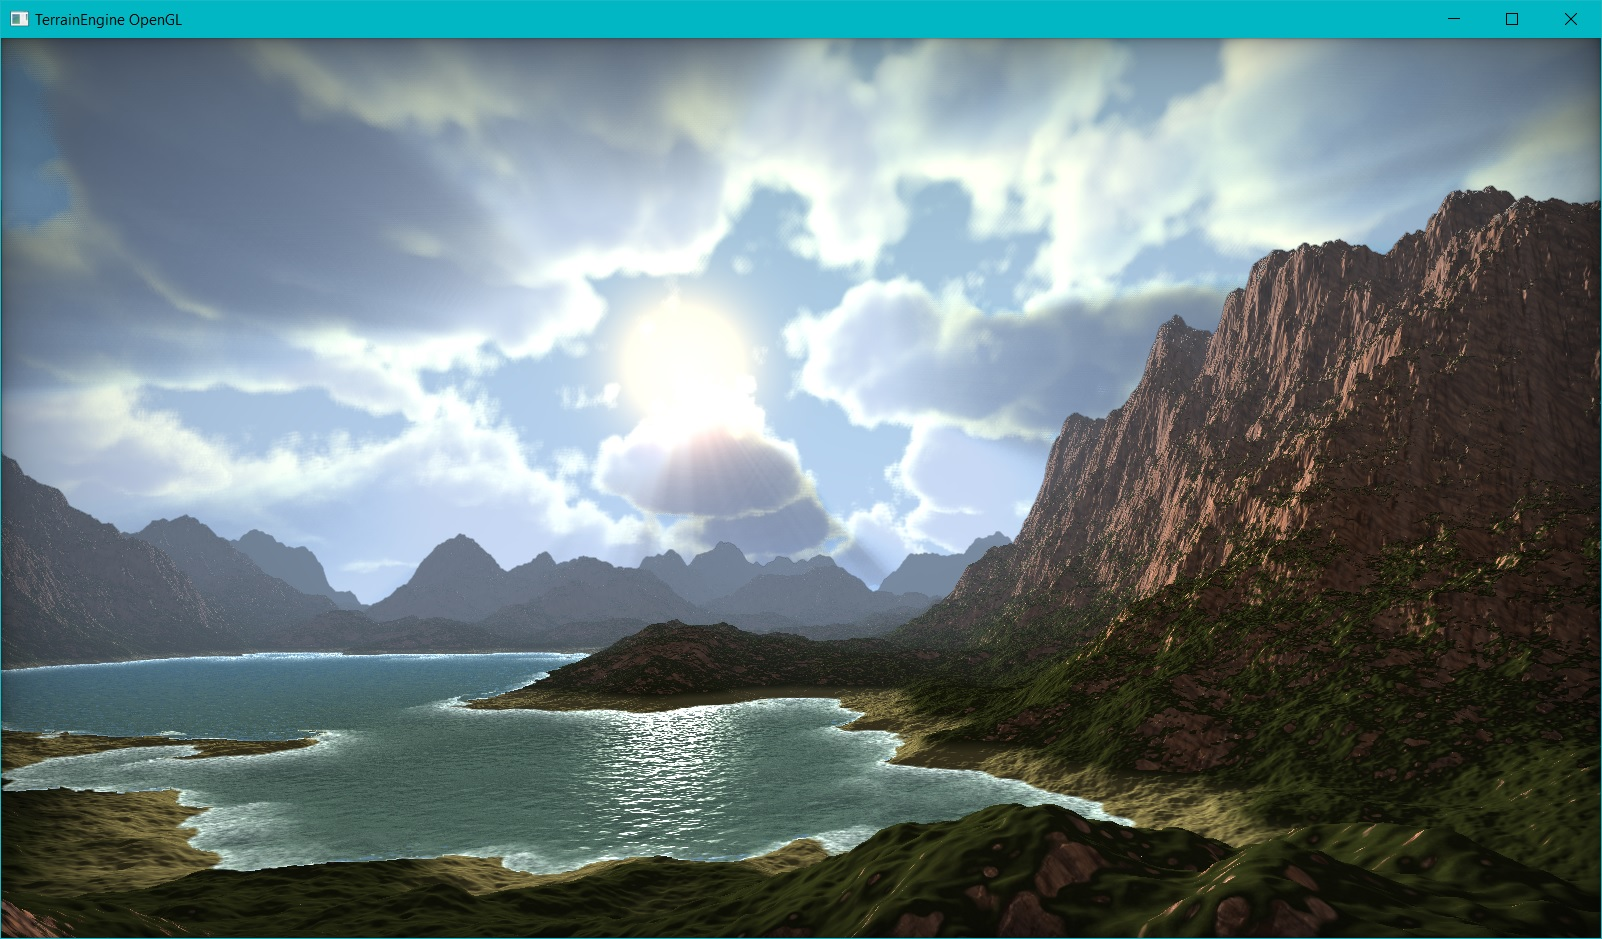
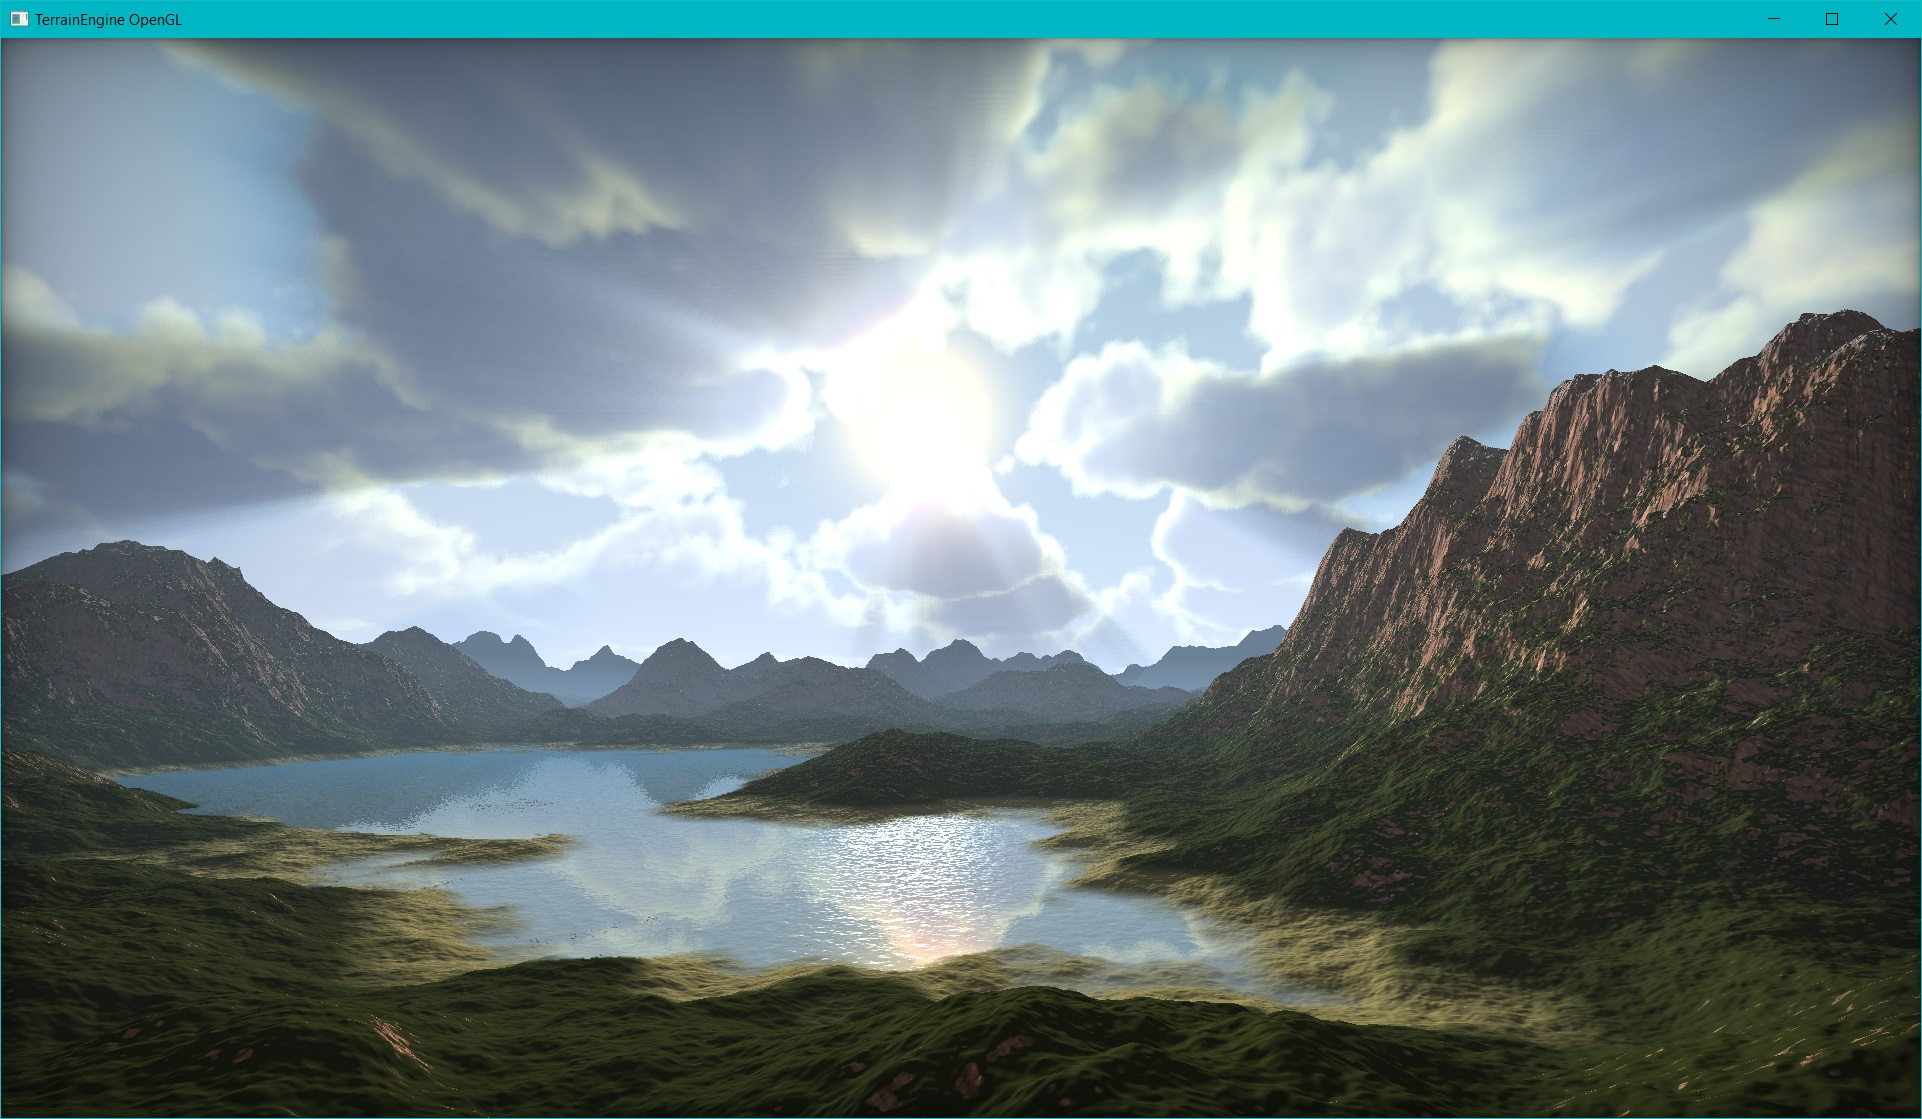
Update pictures. Update terrain fog.

diff --git a/Tile.cpp b/Tile.cpp
@@ -46,7 +46,7 @@ Tile::Tile(float scale, float dispFactor, int gl) : dispFactor(dispFactor), scal
 
 	this->I = glm::vec2(1, 0)*s;
 	this->J = glm::vec2(0, 1)*s;
-	res = 6;
+	res = 4;
 	initializePlaneVAO(res, tileW, &planeVAO, &planeVBO, &planeEBO);
 	//planeModel = new Model("resources/plane.obj", GL_PATCHES);
 	//waterModel = new Model("resources/plane.obj", GL_TRIANGLES);
@@ -195,9 +195,9 @@ bool Tile::inTile(Camera camera, glm::vec2 pos) {
 	float y = pos.y;
 
 	bool inX = false;
-	if ((camX < x + scaleFactor * tileW/2.0f) && (camX > x - scaleFactor * tileW/2.0f)) { inX = true; }
+	if ((camX <= x + scaleFactor * tileW/2.0f) && (camX >= x - scaleFactor * tileW/2.0f)) { inX = true; }
 	bool inY = false;
-	if ((camY < y + scaleFactor * tileW/2.0f) && (camY > y - scaleFactor * tileW/2.0f)) { inY = true; }
+	if ((camY <= y + scaleFactor * tileW/2.0f) && (camY >= y - scaleFactor * tileW/2.0f)) { inY = true; }
 
 	bool result = inX && inY;
 
@@ -234,20 +234,20 @@ void Tile::updateTiles() {
 		posN = posC + I,
 		posE = posC + J,
 		posW = posC - J,
-		posSE = posS + posE,
-		posSW = posS + posW,
-		posNE = posN + posE,
-		posNW = posN + posW;
+		posSE = posS + posE - posC,
+		posSW = posS + posW - posC,
+		posNE = posN + posE - posC,
+		posNW = posN + posW - posC;
 
 	//if (tile->inTile(s->cam, posC)) std::cout << "IN C" << std::endl;
 	if (inTile(se->cam, posS)) whichTile = S, howManyTiles++;// , std::cout << "IN S" << std::endl;
 	if (inTile(se->cam, posE)) whichTile = E, howManyTiles++;// , std::cout << "IN E" << std::endl;
 	if (inTile(se->cam, posW)) whichTile = W, howManyTiles++;// , std::cout << "IN W" << std::endl;
 	if (inTile(se->cam, posN)) whichTile = N, howManyTiles++;// , std::cout << "IN N" << std::endl;
-	//if (tile->inTile(s->cam, posNE)) whichTile = NE, howManyTiles++;
-	//if (tile->inTile(s->cam, posNW)) whichTile = NW, howManyTiles++;
-	//if (tile->inTile(s->cam, posSE)) whichTile = SE, howManyTiles++;
-	//if (tile->inTile(s->cam, posSW)) whichTile = SW, howManyTiles++;
+	if (inTile(se->cam, posNE)) whichTile = NE, howManyTiles++;
+	if (inTile(se->cam, posNW)) whichTile = NW, howManyTiles++;
+	if (inTile(se->cam, posSE)) whichTile = SE, howManyTiles++;
+	if (inTile(se->cam, posSW)) whichTile = SW, howManyTiles++;
 
 	for (int i = 0; i < positionVec.size(); i++) {
 		if (inTile(se->cam, positionVec[i])) {

diff --git a/Main.cpp b/Main.cpp
@@ -53,8 +53,9 @@ int main()
 
 	window.camera = &camera;
 
-	glm::vec3 fogColor(0.6 + 0.1, 0.71 + 0.1, 0.85 + 0.1);
-	fogColor *= 0.7;
+	//glm::vec3 fogColor(0.6 + 0.1, 0.71 + 0.1, 0.85 + 0.1);
+	glm::vec3 fogColor(0.5,0.6,0.7);
+	//fogColor *= 0.7;
 	glm::vec3 lightColor(255, 255, 230);
 	lightColor /= 255.0;
 
@@ -65,7 +66,7 @@ int main()
 	Skybox skybox; //unused
 	VolumetricClouds volumetricClouds(Window::SCR_WIDTH, Window::SCR_HEIGHT);
 	VolumetricClouds reflectionVolumetricClouds(1280, 720); //a different object is needed because it has a state-dependent draw method
-	reflectionVolumetricClouds.setReflection(true);
+	reflectionVolumetricClouds.setPostProcess(false);
 
 	float waterHeight = 128.0 + 50.0;
 	Water water(glm::vec2(0.0, 0.0), scale*gl, waterHeight);
@@ -84,6 +85,10 @@ int main()
 
 	ScreenQuad fboVisualizer("shaders/visualizeFbo.frag");
 
+
+	unsigned int testTexture = Texture2D(1920, 1080);
+	Shader testComp("TEST", "shaders/testComputeShaderA.comp");
+	int frameIter = 0;
 	while (window.continueLoop())
 	{
 
@@ -128,7 +133,7 @@ int main()
 		water.bindReflectionFBO();
 		glClearColor(0.0, 0.4*0.8, 0.7*0.8, 1.0);
 		glEnable(GL_DEPTH_TEST);
-		glEnable(GL_CULL_FACE);
+		//glEnable(GL_CULL_FACE);
 		glCullFace(GL_BACK);
 		glClear(GL_COLOR_BUFFER_BIT | GL_DEPTH_BUFFER_BIT);
 		scene.cam.invertPitch();
@@ -160,6 +165,9 @@ int main()
 		//draw to water refraction buffer object
 		water.bindRefractionFBO();
 		glClear(GL_COLOR_BUFFER_BIT | GL_DEPTH_BUFFER_BIT);
+		glEnable(GL_DEPTH_TEST);
+		glEnable(GL_CULL_FACE);
+
 		terrain.up = -1.0;
 		terrain.draw();
 
@@ -185,10 +193,18 @@ int main()
 		PostProcessing.draw();
 
 		///////////////
+
+		testComp.use();
+		testComp.setInt("frameIter", (frameIter++)/64 % 16);
+
+		bindTexture2D(testTexture, 0);
+		glDispatchCompute(1920 / 8, 1080 / 8, 1);
+		glMemoryBarrier(GL_SHADER_IMAGE_ACCESS_BARRIER_BIT);
+
 		// Texture visualizer
 		Shader& fboVisualizerShader = fboVisualizer.getShader();
 		fboVisualizerShader.use();
-		fboVisualizerShader.setSampler2D("fboTex", 0, 0);
+		fboVisualizerShader.setSampler2D("fboTex", testTexture, 0);
 		//fboVisualizer.draw();
 		
 

diff --git a/VolumetricClouds.cpp b/VolumetricClouds.cpp
@@ -10,10 +10,10 @@ VolumetricClouds::VolumetricClouds(int SW, int SH): SCR_WIDTH(SW), SCR_HEIGHT(SH
 
 	//cloudsFBO = new FrameBufferObject(SW, SH, 4);
 	cloudsFBO = new TextureSet(SW, SH, 4);
-	cloudsPostProcessingFBO = new FrameBufferObject(SW, SH, 2);
+	cloudsPostProcessingFBO = new FrameBufferObject(Window::SCR_WIDTH, Window::SCR_HEIGHT, 2);
 	lastFrameCloudsFBO = new FrameBufferObject(SH, SH, 2);
 
-	reflection = false;
+	postProcess = true;
 	this->coverage = 0.45;
 
 	/////////////////// TEXTURE GENERATION //////////////////
@@ -118,7 +118,7 @@ void VolumetricClouds::draw() {
 	
 	//copy to lastFrameFBO
 
-	if (!reflection) {
+	if (postProcess) {
 		// cloud post processing filtering
 		cloudsPostProcessingFBO->bind();
 		Shader& cloudsPPShader = ppShader->getShader();
@@ -130,7 +130,8 @@ void VolumetricClouds::draw() {
 		cloudsPPShader.setSampler2D("depthMap", s->sceneFBO.depthTex, 2);
 		cloudsPPShader.setSampler2D("lastFrame", lastFrameCloudsFBO->tex, 3);
 
-		cloudsPPShader.setVec2("resolution", glm::vec2(SCR_WIDTH, SCR_HEIGHT));
+		cloudsPPShader.setVec2("cloudRenderResolution", glm::vec2(SCR_WIDTH, SCR_HEIGHT));
+		cloudsPPShader.setVec2("resolution", glm::vec2(Window::SCR_WIDTH , Window::SCR_HEIGHT));
 
 		glm::mat4 lightModel;
 		lightModel = glm::translate(lightModel, s->lightPos);

diff --git a/VolumetricClouds.h b/VolumetricClouds.h
@@ -18,7 +18,7 @@ public:
 	~VolumetricClouds();
 
 	unsigned int getCloudsTexture() { 
-		return cloudsPostProcessingFBO->getColorAttachmentTex(0);
+		return (postProcess ? cloudsPostProcessingFBO->getColorAttachmentTex(0) : getCloudsRawTexture());
 	}
 
 	unsigned int getCloudsRawTexture(){
@@ -35,8 +35,8 @@ public:
 		}
 	}
 
-	void setReflection(bool v) { reflection = v; }
-	bool getReflection() { return reflection; }
+	void setPostProcess(bool v) { postProcess = v; }
+	bool getPostProcess() { return postProcess; }
 
 private:
 	int SCR_WIDTH, SCR_HEIGHT;
@@ -44,7 +44,7 @@ private:
 	Shader * volumetricCloudsShader;
 	ScreenQuad * ppShader, * copyShader;
 	int frameIter = 0;
-	bool reflection;
+	bool postProcess;
 	TextureSet * cloudsFBO;
 	FrameBufferObject *cloudsPostProcessingFBO, * lastFrameCloudsFBO;
 

diff --git a/Include/camera.h b/Include/camera.h
@@ -17,7 +17,7 @@ enum Camera_Movement {
 // Default camera values
 const float YAW = -90.0f;
 const float PITCH = 0.0f;
-const float SPEED = 500.f;
+const float SPEED = 2000.f;
 const float SENSITIVITY = 0.1f;
 const float ZOOM = 60.0f;
 const float MAX_FOV = 100.0f;

diff --git a/shader.cpp b/shader.cpp
@@ -43,7 +43,7 @@
 		ID = glCreateProgram();
 	}
 
-	Shader::Shader(std::string name, const char * computeShaderPath)
+	Shader::Shader(std::string name, const char * computeShaderPath) : name(name)
 	{
 		linked = false;
 		isCompute = false;

diff --git a/ScreenQuad.h b/ScreenQuad.h
@@ -21,7 +21,7 @@ public:
 	static void drawQuad();
 
 	static void disableTests() {
-		glDisable(GL_CLIP_DISTANCE0);
+		//glDisable(GL_CLIP_DISTANCE0);
 		glDisable(GL_DEPTH_TEST);
 	}
 
